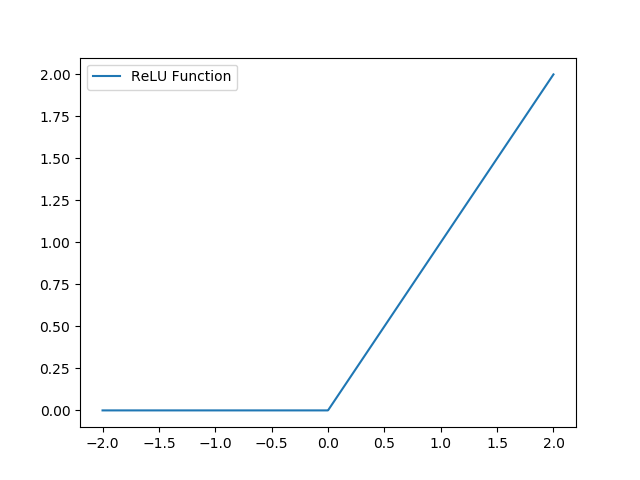
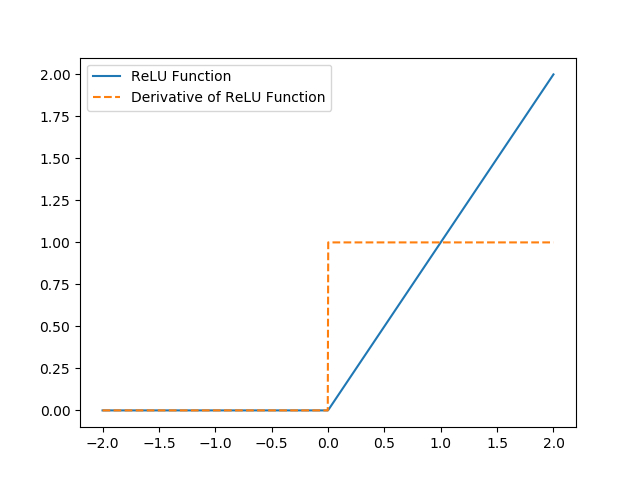
activation function figures now have gradients

diff --git a/deep_learning_background.tex b/deep_learning_background.tex
@@ -55,12 +55,14 @@ By using a layer which learns given that strided convolutions allows the model t
 \section{Activation Functions}
 In order to add non-linearities to the model, activation functions are applied after each layer of models.
 This non-linearity enables complex high order functions to be approximated by the network.
+There exist many activation functions, but this section shall focus on those which have been used in the models proposed in the \textcolor{red}{\textbf{(TODO add link to methods section)}} section.
+Activation functions are often selected based on the range of their output values, in cases where this is unimportant it is common to use the Rectified Linear Unit (ReLU) function as it provides strong gradients, which aids in the prevention of vanishing gradients in deep network models.
 
 \subsection{Sigmoid}
-The sigmoid function, expressed by equation (\ref{eq:sigmoid}) 
+The sigmoid function, expressed by equation (\ref{eq:sigmoid}) is a logistic function 
 
 \begin{equation}\label{eq:sigmoid}
-    \sigma(x) = \frac{1}{1 + e^{-x}}
+    sigmoid(x) = \frac{1}{1 + e^{-x}}
 \end{equation}
 
 \begin{figure}[h!]
@@ -82,17 +84,32 @@ The sigmoid function, expressed by equation (\ref{eq:sigmoid})
 
 \subsection{ReLU}
 \begin{equation}\label{eq:relu}
-    relu(x)=\begin{cases}
+    ReLU(x)=\begin{cases}
       x, & \text{if $x>0$}.\\
       0, & \text{otherwise}.
     \end{cases}
-  \end{equation}
+\end{equation}
+
+\begin{equation}\label{eq:lrelu}
+    ReLU(x)=\begin{cases}
+      x, & \text{if $x>0$}.\\
+      lx, & \text{otherwise}.
+    \end{cases}
+\end{equation}
 
 \begin{figure}[h!]
     \centering
-        \includegraphics[width=0.7\textwidth]{figures/relu.png}
-    \caption{ReLU Function}\label{fig:ReLU}
+    \begin{subfigure}[b]{0.49\textwidth}
+        \includegraphics[width=\textwidth]{figures/relu.png}
+        \subcaption{ReLU Function}\label{fig:ReLU}
+    \end{subfigure}
+    \begin{subfigure}[b]{0.49\textwidth}
+        \includegraphics[width=\textwidth]{figures/lrelu.png}
+        \subcaption{LeakyReLU Function}\label{fig:LeakyReLU}
+    \end{subfigure}
+    \caption{ReLU Activation Functions}\label{fig:relus}
 \end{figure}
+
 
 \subsection{Softmax}
 

diff --git a/lit_review.tex b/lit_review.tex
@@ -115,7 +115,7 @@ In \cite{Chung2016} Chung et al. used a multiple towers convolutional model base
 The model architecture (Figure \ref{fig:LRW_Multiple_Towers}) first processes each frame separately with a shared convolutional layer to extract features from each frame.
 These features are down-sampled with a pooling layer before being concatenated into a single high channel feature map.
 A one dimensional convolutional layer then reduces the channels of this feature map before being processed by subsequent convolutional and pooling layers.
-The final layer of the model is passed through a softmax activation function \textcolor{red}{\textbf{(TO-DO add reference to softmax function)}} to predict one of the 500 word labels.
+The final layer of the model is passed through a softmax activation function \textcolor{red}{\textbf{(TODO add reference to softmax function)}} to predict one of the 500 word labels.
 
 \begin{figure}[h]
     \centering
